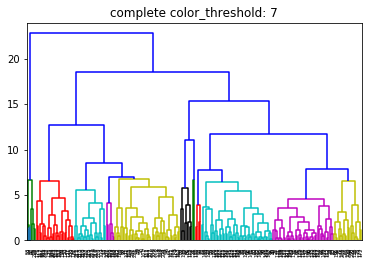
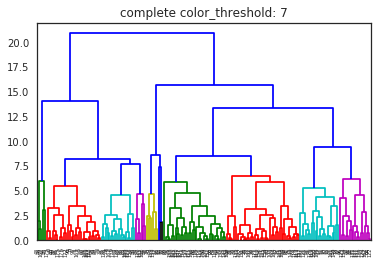
Task_02 (Rev. 2)
Refactor source file.
Dataframe of pandas object library to store data.
Review of the README.md file.
Images of the new graphics obtained.
----
New changes in Task_01 folder.

Changed region(s): [[0.0, 0.0303, 1.0, 1.0]]

diff --git a/task_02/task_02.py b/task_02/task_02.py
@@ -1,127 +1,183 @@
 # -*- coding: utf-8 -*-
 
-import codecs
-from sklearn import preprocessing 
-from sklearn.decomposition import PCA
+import csv
+
 import matplotlib.pyplot as plt
-import sklearn.neighbors
 import numpy as np
+import pandas as pd
+from sklearn.decomposition import PCA
+from sklearn import preprocessing 
+import sklearn.neighbors
 from scipy import cluster
 
 
+def exclude_features(data, excludes_list):
+    index_range = range(0, len(excludes_list))
+    excludes_list.sort()    
+    data_aux = data
+    
+    for i in index_range:
+        data_aux.pop(excludes_list[i]-i)
+        
+    return data_aux
 
-def load_data(file):            
-    f = codecs.open(file, "r", "utf-8")
-    features_name = []
-    features_data = []
-    count = 0
-    for line in f:
-        if count > 0: 
-		# remove double quotes
-		row = line.replace ('"', '').split(",")
-		
-		if row != []:
-			features_data.append(map(float, row))
-        else:
-           features_name = line.replace ('"', '').split(",")
-        count += 1
- 
-   
-    return features_data, features_name
+def load_data(file, city, range_years, features_not_included):
+    f = open(file, 'rt')
+    data = []
+    heads = []
+    
+    #total_in = 0
+    #total_out = 0
+    
+    try:
+        reader = csv.reader(f)
+        
+        for row in reader:
+            newcity = row[0]
+            if newcity == 'city':
+                heads.append(exclude_features(row, features_not_included))
+                
+            elif newcity == city:
+                if ( int(row[1]) in range_years ):
+                    
+                    #if not ('' in row):
+                        # No include 'city' column (feature) and 
+                        # rows whit any empty feature
+                    example = exclude_features(row, features_not_included)
+                    data.append(example)
+                    #total_in += 1
+                    #else:
+                        #example = 
+                        #total_out += 1
 
-#http://scikit-learn.org/stable/modules/preprocessing.html
-def normalization_with_MinMax(data):
+    finally:
+        f.close()
+        
+        df = pd.DataFrame.from_records(data, columns = heads)
+        df = df.replace('', np.nan, regex=True)
+        
+        #print(total_in)
+        #print(total_out)
+        #print(total_in + total_out)
+        
+    return df
+
+
+def normalization_with_minmax(data):
+    
     min_max_scaler = preprocessing.MinMaxScaler()
     
-    return  min_max_scaler.fit_transform(data)    
+    return min_max_scaler.fit_transform(data.dropna().values)    
+
+def pca(data):
+    estimator = PCA (n_components = 2)
+    X_pca_ = estimator.fit_transform(data)
+    
+    return estimator, X_pca_
 
 
-# 0. Load data
-data, names = load_data("../data/dengue_pivot_mean.csv")
+def main():
+    # 0. Load data
+    years = range(2004, 2011)
+    excludes = range(0, 4)
+    data = load_data(
+            "../data/dengue_features_train.csv",
+            'sj',
+            years,
+            excludes)
 
-features = np.transpose(data);
+    
+    # 1. Data normalization
+    data_normalizated = normalization_with_minmax(data)
 
-# 1. Data normalization
-data_normalizated = normalization_with_MinMax(data)
+    # 2. Principal Component Analysis
+    estimator, X_pca = pca(data_normalizated)
+    plt.plot(X_pca[:,0], X_pca[:,1],'x')
 
-# 2. Principal Component Analysis
-estimator = PCA (n_components = 2)
-X_pca = estimator.fit_transform(data_normalizated)
+    
+    # 3. Hierarchical Clustering
+    #   3.1. Compute the similarity matrix
+    dist = sklearn.neighbors.DistanceMetric.get_metric('euclidean')
+    matsim = dist.pairwise(X_pca)
+    avSim = np.average(matsim)
+    print "%s\t%6.2f" % ('Average Distance', avSim)
 
-plt.plot(X_pca[:,0], X_pca[:,1],'x')
+    #   3.2. Building the Dendrogram    
+    methods = ["single", "complete", "average", "weighted", "centroid", "median", "ward"]
+    selec_meth = methods[1]
+    criterions = ["inconsistent", "distance", "maxclust"]
+    sel_crit = criterions[1]
 
-# 3. Hierarchical Clustering
-#   3.1. Compute the similarity matrix
-dist = sklearn.neighbors.DistanceMetric.get_metric('euclidean')
-matsim = dist.pairwise(X_pca)
-avSim = np.average(matsim)
-print "%s\t%6.2f" % ('Average Distance', avSim)
+    cut = 10 # ad-hoc
 
-#   3.2. Building the Dendrogram    
-methods = ["single", "complete", "average", "weighted", "centroid", "median", "ward"]
-selec_meth = methods[1]
-criterions = ["inconsistent", "distance", "maxclust"]
-sel_crit = criterions[1]
+    clusters = cluster.hierarchy.linkage(matsim, method = selec_meth)
+    # http://docs.scipy.org/doc/scipy-0.14.0/reference/generated/scipy.cluster.hierarchy.dendrogram.html
+    cluster.hierarchy.dendrogram(clusters, color_threshold = 7)
+    plt.title('%s color_threshold: %d' % (selec_meth, 7))
+    plt.show()
 
-cut = 10# !!!! ad-hoc
-
-clusters = cluster.hierarchy.linkage(matsim, method = selec_meth)
-# http://docs.scipy.org/doc/scipy-0.14.0/reference/generated/scipy.cluster.hierarchy.dendrogram.html
-cluster.hierarchy.dendrogram(clusters, color_threshold = 7)
-plt.title('%s color_threshold: %d' % (selec_meth, 7))
-plt.show()
-
-labels = cluster.hierarchy.fcluster(clusters, cut , criterion = sel_crit)
+    labels = cluster.hierarchy.fcluster(clusters, cut , criterion = sel_crit)
     
     
-#   4. plot
-colors = np.array([x for x in 'bgrcmykbgrcmykbgrcmykbgrcmyk'])
-colors = np.hstack([colors] * 20)
-numbers = np.arange(len(X_pca))
-fig, ax = plt.subplots()
+    #   4. plot
+    colors = np.array([x for x in 'bgrcmykbgrcmykbgrcmykbgrcmyk'])
+    colors = np.hstack([colors] * 20)
+    numbers = np.arange(len(X_pca))
+    fig, ax = plt.subplots()
         
-for i in range(len(X_pca)):
-    plt.text(X_pca[i][0], X_pca[i][1], numbers[i], color=colors[labels[i]]) 
+    for i in range(len(X_pca)):
+        plt.text(X_pca[i][0], X_pca[i][1], numbers[i], color=colors[labels[i]]) 
     
-plt.xlim(min(X_pca[:,0]-0.2), max(X_pca[:,0])+0.2)
-plt.ylim(min(X_pca[:,1]-0.2), max(X_pca[:,1])+0.2)
-ax.grid(True)
-fig.tight_layout()
-plt.title('Method: %s, Cut: %d, Criterion: %s' % (selec_meth, cut, sel_crit))
-plt.show()
-print 'Number of clusters %d %s' % (len(set(labels)), sel_crit)
+    plt.xlim(min(X_pca[:,0]-0.2), max(X_pca[:,0])+0.2)
+    plt.ylim(min(X_pca[:,1]-0.2), max(X_pca[:,1])+0.2)
+    ax.grid(True)
+    fig.tight_layout()
+    plt.title('Method: %s, Cut: %d, Criterion: %s' % (selec_meth, cut, sel_crit))
+    plt.show()
+    print 'Number of clusters %d %s' % (len(set(labels)), sel_crit)
 
+    
+    # -------------------------------------------------------------------------
+    
+    names = list(data)
+    
+    data_aux = data
+    data_droped = data_aux.dropna()
+    
+    features = data_droped.transpose();
 
-# -----------------------------------------------------------------------------
-features = np.transpose(data);
+    #1. Normalization of the data
+    
+    features_norm = normalization_with_minmax(features)
 
-#1. Normalization of the data
-features_norm = normalization_with_MinMax(features)
+    #1.2. Principal Component Analysis
+    estimator, X_pca = pca(features_norm)
+    plt.plot(X_pca[:,0], X_pca[:,1],'x')
 
-#1.2. Principal Component Analysis
-estimator = PCA (n_components = 2)
-X_pca = estimator.fit_transform(features_norm)
-print("Variance Ratio: ", estimator.explained_variance_ratio_) 
+    print("Variance Ratio: ", estimator.explained_variance_ratio_) 
 
-fig, ax = plt.subplots()
-for i in range(len(X_pca)):
-    plt.text(X_pca[i][0], X_pca[i][1], names[i]) 
+    fig, ax = plt.subplots()
+    for i in range(len(X_pca)):
+        plt.text(X_pca[i][0], X_pca[i][1], names[i]) 
 
-plt.xlim(min(X_pca[:,0]-0.2), max(X_pca[:,0])+0.2)
-plt.ylim(min(X_pca[:,1]-0.2), max(X_pca[:,1])+0.2)
-ax.grid(True)
-fig.tight_layout()
-plt.show()
+    plt.xlim(min(X_pca[:,0]-0.2), max(X_pca[:,0])+0.2)
+    plt.ylim(min(X_pca[:,1]-0.2), max(X_pca[:,1])+0.2)
+    ax.grid(True)
+    fig.tight_layout()
+    plt.show()
 
-# 2. Compute the similarity matrix
-dist = sklearn.neighbors.DistanceMetric.get_metric('euclidean')
-matsim = dist.pairwise(features_norm)
-avSim = np.average(matsim)
-print "%s\t%6.2f" % ('Average Distance', avSim)
+    # 2. Compute the similarity matrix
+    dist = sklearn.neighbors.DistanceMetric.get_metric('euclidean')
+    matsim = dist.pairwise(features_norm)
+    avSim = np.average(matsim)
+    print "%s\t%6.2f" % ('Average Distance', avSim)
 
-# 3. Building the Dendrogram	
-# http://docs.scipy.org/doc/scipy/reference/generated/scipy.cluster.hierarchy.linkage.html#scipy.cluster.hierarchy.linkage
-clusters = cluster.hierarchy.linkage(matsim, method = 'complete')
-# http://docs.scipy.org/doc/scipy-0.14.0/reference/generated/scipy.cluster.hierarchy.dendrogram.html
-cluster.hierarchy.dendrogram(clusters, color_threshold = 3, labels = names, leaf_rotation=90)
-plt.show()
+    # 3. Building the Dendrogram	
+    # http://docs.scipy.org/doc/scipy/reference/generated/scipy.cluster.hierarchy.linkage.html#scipy.cluster.hierarchy.linkage
+    clusters = cluster.hierarchy.linkage(matsim, method = 'complete')
+    # http://docs.scipy.org/doc/scipy-0.14.0/reference/generated/scipy.cluster.hierarchy.dendrogram.html
+    cluster.hierarchy.dendrogram(clusters, color_threshold = 3, labels = names, leaf_rotation=90)
+    plt.show()
+
+if __name__ == '__main__':
+	main()

diff --git a/task_01/task_01.py b/task_01/task_01.py
@@ -113,9 +113,9 @@ def temperature_control(data):
     return complete_data
 
 
-def correlation_plots(data):
+def correlation_plots(data, R):
     features_length = len(data.columns)
-    R = data.astype(float).corr()
+    
     
     plt.pcolormesh(R)
     pcolor(R)
@@ -143,8 +143,6 @@ def correlation_plots(data):
                 linewidths=.2, cbar_kws={"shrink": .2}, ax=ax)
     
     ax.set_title('Pearson correlation')
-    
-    return R
 
 
 def normalization_with_minmax(data):
@@ -189,8 +187,8 @@ def main():
             'sj',
             years,
             excludes)
-    
-    correlation_plots(data)
+    R = data.astype(float).corr()
+    correlation_plots(data, R)
 
     data_normalizated = normalization_with_minmax(data)
     estimator, X_pca = pca(data_normalizated)

diff --git a/task_02/README.md b/task_02/README.md
@@ -5,24 +5,32 @@ At time to realize the matrix of the distances from the similitude matrix, we op
 
 ## Decision in the clustering.
 
-To realize the group with the distance matrix in the dendograma, we have used **_“complete method”_**, which if we compare with the rest, it is better for distribute the group, if we don’t see the _“ward method"_, which have too much groups.
+To realize the group with the distance matrix in the dendrogram, we have used **_“complete method”_**, which if we compare with the rest, it is better for distribute the group, if we don’t see the _“ward method"_, which have too much groups.
 Cluster hierarchic groups to realize a dispersion graphic representation was realized in **cut in 10** and the **_criterion_** used have been **_“distance”_**.
 
-![Dendogram][1]  ![Plot 2.1][2]
+![Dendrogram][1]  ![Plot][2]
 
-[1]: https://github.com/grego1201/MACHINE-LEARNING-TECHNIQUES/blob/master/task_02/images/dendogram.png?raw=true
+[1]: https://github.com/grego1201/MACHINE-LEARNING-TECHNIQUES/blob/master/task_02/images/dendrogram.png?raw=true
 [2]: https://github.com/grego1201/MACHINE-LEARNING-TECHNIQUES/blob/master/task_02/images/plot.png?raw=true
 
 ## Explication of the results.
-We have identified seven different groups as result of operation we realize in the task, data and graphics representation, which we name with these different meanings.
+We have identified 5 different groups as result of operation we realize in the task, data and graphics representation, which we name with these different meanings.
   * Group 1: Half-high temperatures.
   * Group 2: Inconclusive. (Maybe bad measures)
   * Group 3: Low precipitation.
   * Group 4: We should look for motive because elements belong with the last weeks of April and May.
   * Group 5: Outliers
-  * Group 6: Average temperatures are high.
-  * Group 7: High season temperature.
 
-#Important
-During task realization we could see values in the area ndvi which don’t be between [-1.0, +1.0] and temperatures with mistakes in the data introduction, for example 25075 ºC in place of 25.075 ºC.
-These mistakes are going to be detected and solved later, beginning the process to revise conclusions we saw before and changing whatever will be necessary. 
+## [Optional] Execute the hierarchical clustering algorithm using feature as elements. Extract some conclusions.
+The same sequence of steps is carried out after transposition of the matrix. The following dendrogram and scatter plot are obtained.
+
+![Features dendrogram][3]  ![Feature Plot][4]
+
+[3]: https://github.com/grego1201/MACHINE-LEARNING-TECHNIQUES/blob/master/task_02/images/dendrogram_features.png?raw=true
+[4]: https://github.com/grego1201/MACHINE-LEARNING-TECHNIQUES/blob/master/task_02/images/plot_features.png?raw=true
+
+Some comclusions:
+ * Similar characteristics are grouped in the same cluster. (ndvi, values related to the magnitude in reanalysis and stations)
+ * In reanalysis they are mainly grouped by the measure in kelvin and atmospheric pressures.
+ * In station are grouped by the values of temperatures.
+ * Within each of the different cluster appear some characteristic that apparently unrelated similarity with the other features that make it up.

diff --git a/task_01/README.md b/task_01/README.md
@@ -38,15 +38,15 @@ With the different approaches we can see few visual difference in the grade of c
 ![Correlation with seaborn][2]
 
 
-[1]: https://github.com/grego1201/MACHINE-LEARNING-TECHNIQUES/blob/master/task_01/imges/Correlation_matplotlib.png?raw=true
-[2]: https://github.com/grego1201/MACHINE-LEARNING-TECHNIQUES/blob/master/task_01/imges/Correlation_seaborn.png?raw=true
+[1]: https://github.com/grego1201/MACHINE-LEARNING-TECHNIQUES/blob/master/task_01/images/Correlation_matplotlib.png?raw=true
+[2]: https://github.com/grego1201/MACHINE-LEARNING-TECHNIQUES/blob/master/task_01/images/Correlation_seaborn.png?raw=true
 
 We can see how features [ndvi_nw, ndvi_se] don’t have too much correlation, meanwhile features [reanalysis_air_temp_k, reanalysis_avg_temp_k, reanalysis_dew_point_temp_k,reanalysis_max_air_temp_k] have too much correlation. Also, we can obvserve how [reanalysis_sat_precip_amt_mm, reanalysis_tdtr_k, station_diur_temp_rng_c, station_max_temp_c] have high correlation. The rest of features have some correlation but not so much.
 
 ## 3) Execute PCA and plot the results
 It can be observed how everyone is so close but it can appreciate week’s (22 – 2004) and (6 – 2005) are the most unequal (outlier) and some group of them like weeks (2007-44), (47 – 2004), (2004 – 52).
 
-![PCA](https://github.com/grego1201/MACHINE-LEARNING-TECHNIQUES/blob/master/task_01/imges/PCA.png?raw=true)
+![PCA](https://github.com/grego1201/MACHINE-LEARNING-TECHNIQUES/blob/master/task_01/images/PCA.png?raw=true)
 
 ## Experience
 However, if we can understand the finality of task and steps which we should take it to obtain results which are a great support, if we do not have enough knowledge about correlation concepts and which is the utility about calculate the “Principal component analysis (PCA)” we can’t make a good interpretation.
